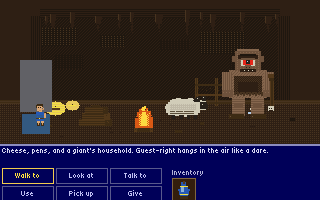
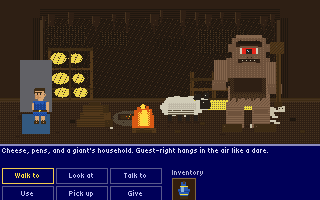
art(cyclops): integrate denser VGA v3 pixel pack (size bumps)
Overwrite assets/cyclops/ with AD-approved v3 denser MI pack.
Odysseus 20×36 (was 12×22), Polyphemus 72×100 (was 52×72); props bumped.
Nearest filter, mipmaps off; CollisionShapes/Z/layout/puzzle unchanged.
Player Visual offset -18 for taller idle; ART.md v3 palette + sizes.
Refresh live shore/cave docs shots; add headless capture helper.

diff --git a/docs/ART.md b/docs/ART.md
@@ -28,52 +28,62 @@
 | Role | Hex |
 |------|-----|
 | Sky | `#739ED1`, `#8CB2D9` |
-| Sea | `#2E598F`, foam `#B3CCE6`, **deeper sea `#244773`** *(v2)* |
-| Cliff / earth | `#6B5C47`, `#473C2E`, `#80734A`, **mid rock `#5A4E3A`** *(v2)* |
+| Sea | `#2E598F`, foam `#B3CCE6`, deeper `#244773`, **deepest trough `#1A365C`** *(v3)* |
+| Cliff / earth | `#6B5C47`, `#473C2E`, `#80734A`, mid `#5A4E3A` |
+| Grass tufts | **`#6A7A3A`** *(v3)* |
 | Cave | `#2E1F14`, `#1F170F`, `#47331F` |
-| Skin | `#D9A673`, **skin shadow `#C48E5C`** *(v2)* |
-| Odysseus tunic | `#2659B3` |
+| Skin | `#D9A673`, shadow `#C48E5C` |
+| Odysseus tunic | `#2659B3`, **fold shade `#1A3F8A`** *(v3)* |
 | Wood | `#52381A`, `#3D2B14` |
 | Fire | `#D95914`, `#FFD940` |
 | Sheep | `#D1CCB8`, `#26201A` |
-| Polyphemus | `#85664D`, eye `#E6261A`, **shade `#6E523C`** *(v2)* |
+| Polyphemus | `#85664D`, eye `#E6261A`, shade `#6E523C` |
 | Ship | hull `#14100D`, sail `#BFB8A6` |
 | UI gold accent | `#F2E040` (icons / buckle) |
-| Cheese (prop clutter) | **`#E8C85A`** *(v2, gold-adjacent)* |
+| Cheese (prop clutter) | `#E8C85A` |
+| Bone / bleach clutter | **`#C8C0A8`** *(v3)* |
 | Transparent | fully transparent for sprites/icons |
 
-### v2 palette additions (4 related shades)
-Documented for dither / silhouette only — stay hard-edged VGA, no new hue families:
-1. `#244773` — deeper sea (wave dither)
-2. `#5A4E3A` — mid cliff grain
-3. `#C48E5C` — skin shadow / sandal strap
-4. `#6E523C` — Polyphemus body shade / tunic dither  
-Plus cheese `#E8C85A` for cave prop clutter (warm gold neighbor).
+### Palette additions by version
+**v2:** `#244773`, `#5A4E3A`, `#C48E5C`, `#6E523C`, `#E8C85A`
+
+**v3 (4 related shades):**
+1. `#1A365C` — deepest sea trough / wave dither
+2. `#1A3F8A` — Odysseus tunic fold shade
+3. `#C8C0A8` — bone piles / bleached clutter
+4. `#6A7A3A` — beach / cliff-top grass tufts
 
 ## Hotspots & debug chrome
 - **No always-on hotspot nameplates** (no CAVE / SHIP / WOOD on the playfield). Names appear only on the **sentence line** on hover.
 - Room **Title** + **StatusLabel** stay hidden in play; set `GameState.debug_show_room_chrome = true` for debug.
-- **CollisionShape2D sizes stay fixed** — art swaps ColorRect visuals only (Sprite2D / TextureRect). Align sprites over existing colliders.
+- **CollisionShape2D sizes stay fixed** — art swaps ColorRect visuals only (Sprite2D / TextureRect). Align sprites over existing colliders; larger art may overhang — do not grow colliders.
 
-## Cyclops pixel pack (`assets/cyclops/`) — **v2 denser MI detail**
+## Cyclops pixel pack (`assets/cyclops/`) — **v3 denser MI detail + size bumps**
 Early-90s CD-ROM VGA: **Monkey Island 1/2 VGA** outdoor/interior read + **Legend of Zelda CD-ROM** chunky prop silhouettes.
 
 - Chunky **visible pixels**; hard edges only
 - **Limited fixed palette** (no blending, no gradients that invent new colors)
 - **NO** modern HD, smooth anti-alias, Batter’s Eye LCD sheen, or Tron neon
-- **v2 denser MI detail** — dithered terrain/prop texture, prop clutter, readable silhouettes (not flat color bands)
+- **v3 denser MI detail** — dithered terrain/prop texture, prop clutter, readable silhouettes; **larger characters** than v1/v2
 
-### Sprite scale rules
-- **Odysseus** = **12×22** (idle + walk1/walk2; optional **walk3**) — hair, nose profile, two eyes, belt, sandals
-- Props stay **chunky and hit-readable** at VGA (ship 56×34, cave mouth 48×56, Polyphemus 52×72, sheep 48×28, fire 28×28, wood 36×24, stake 16×28)
-- **Polyphemus** optional extras: `polyphemus_idle.png`, `polyphemus_blink.png` (same 52×72)
-- Inventory icons exactly **16×16**, transparent BG
+### Sprite scale rules (v3 — SIZE CHANGES)
+| Asset | Size | Notes |
+|-------|------|--------|
+| **Odysseus** idle + walk1/2/3 | **20×36** | Was 12×22 — STOP using old size |
+| **Polyphemus** + idle + blink | **72×100** | Was 52×72 — STOP using old size |
+| ship | **64×40** | Was 56×34 |
+| cave_mouth | **56×64** | Was 48×56 |
+| sheep | **56×34** | Was 48×28 |
+| fire | **32×32** | Was 28×28 |
+| olive_wood | **40×28** | Was 36×24 |
+| stake / hot_stake | **18×32** | Was 16×28 |
+| inv_* icons | **16×16** | Unchanged — richer but legible |
 
 ### Background rules
 - Painted **bands / big shapes** plus **dense dither** (sky → sea foam → beach pebbles → cliff grain; cave wall rock → stalactites → floor debris)
 - No photo reference paste, no HD detail, no soft fog
-- Cave interiors: rock texture, stalactites, cheese wheels, bone pile, sheep-pen rails — clear floor strip so props read on top
-- Shore: left sea/beach/sky with foam dither + distant hills; right rocky cliff with **recessed** cave mouth (depth/shadow, not a flat door)
+- **Shore:** ship silhouette **painted ON the water** (left); richer foam/wave dither; rock strata on cliff; beach debris/rocks/grass; cave mouth **carved** with rim + recess + dark interior
+- **Cave:** cheese racks, sheep pens with rails, fire pit area, bone/clutter piles, wall depth + stalactites — clear floor strip so props read on top
 
 ### Z-order
 | Layer | z |
@@ -83,7 +93,7 @@ Early-90s CD-ROM VGA: **Monkey Island 1/2 VGA** outdoor/interior read + **Legend
 | Player | `10` |
 
 ### Integration
-- Shore: single `bg_shore` Sprite2D @ `(0,0)` (top-left); `cave_mouth` on EnterCave; `ship` sprite; Odysseus idle + walk frames (walk3 optional)
+- Shore: single `bg_shore` Sprite2D @ `(0,0)` (top-left); `cave_mouth` on EnterCave; `ship` sprite; Odysseus idle + walk frames (walk3)
 - Cave: `bg_cave`; Polyphemus / sheep / fire / olive wood sprites (optional idle/blink frames for Polyphemus)
 - **Boulder:** no asset — ColorRect placeholder OK
 - InventoryBar: wine / olive_wood / stake / hot_stake → `inv_*.png`
